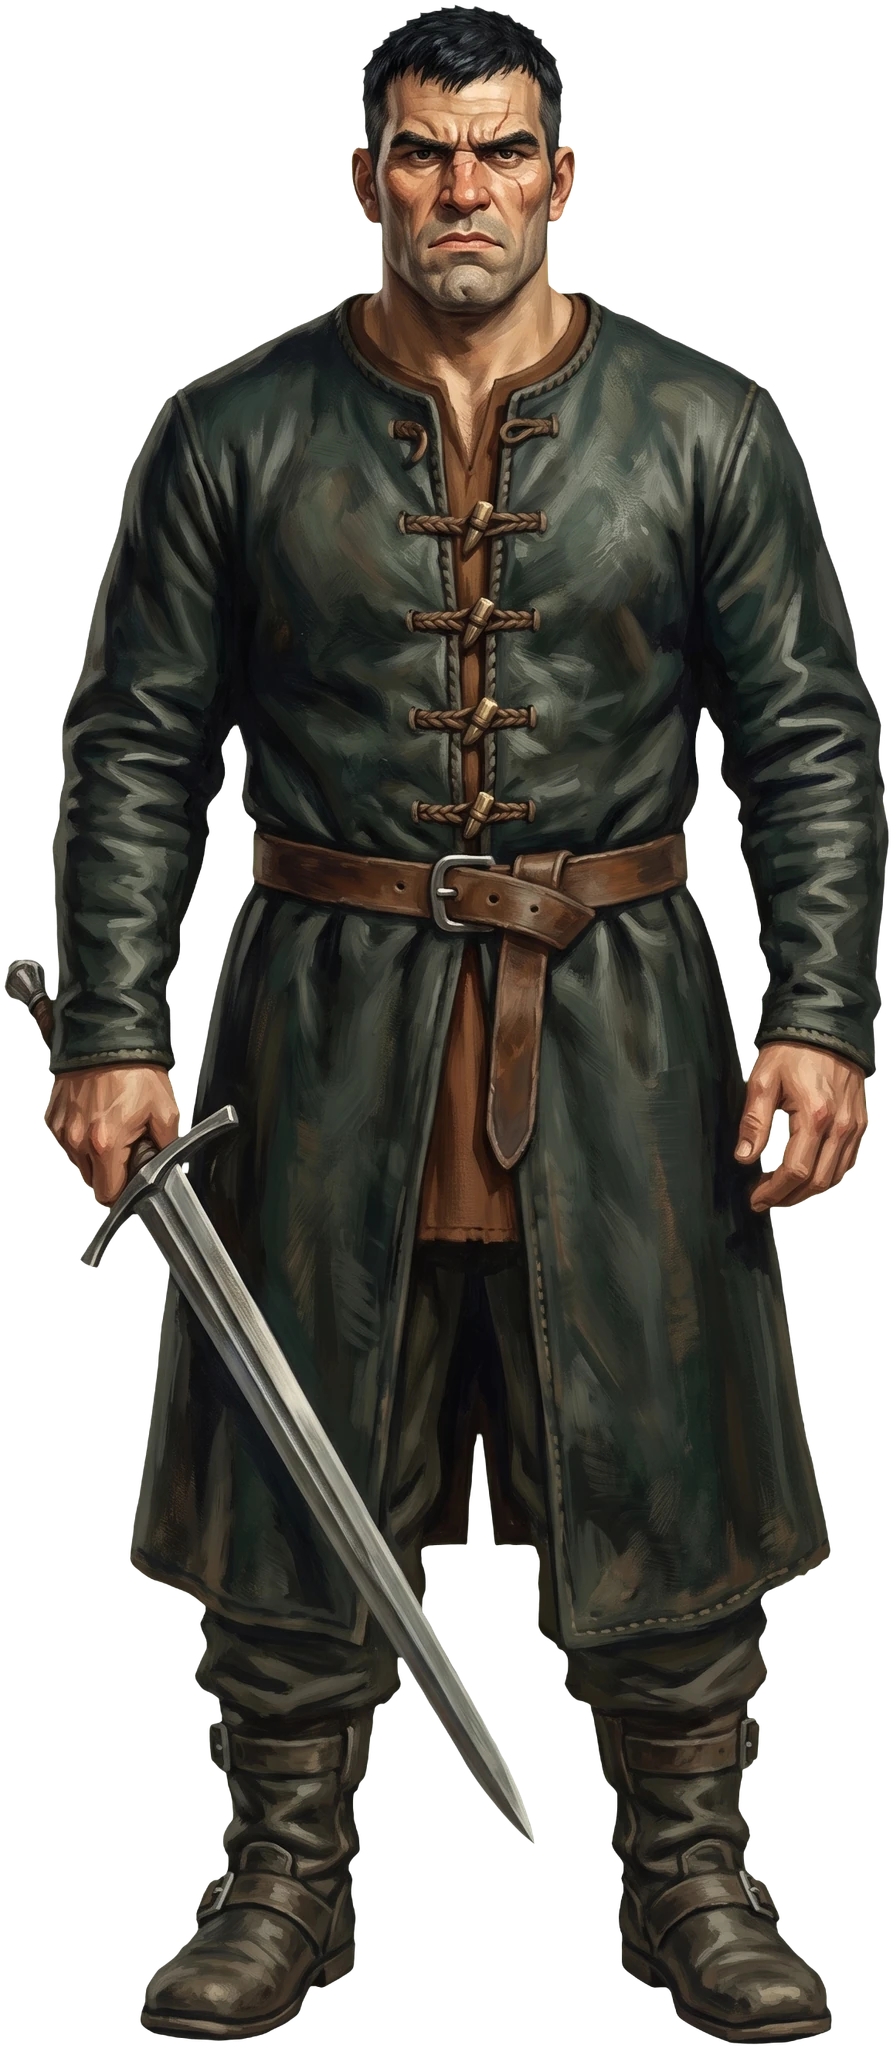
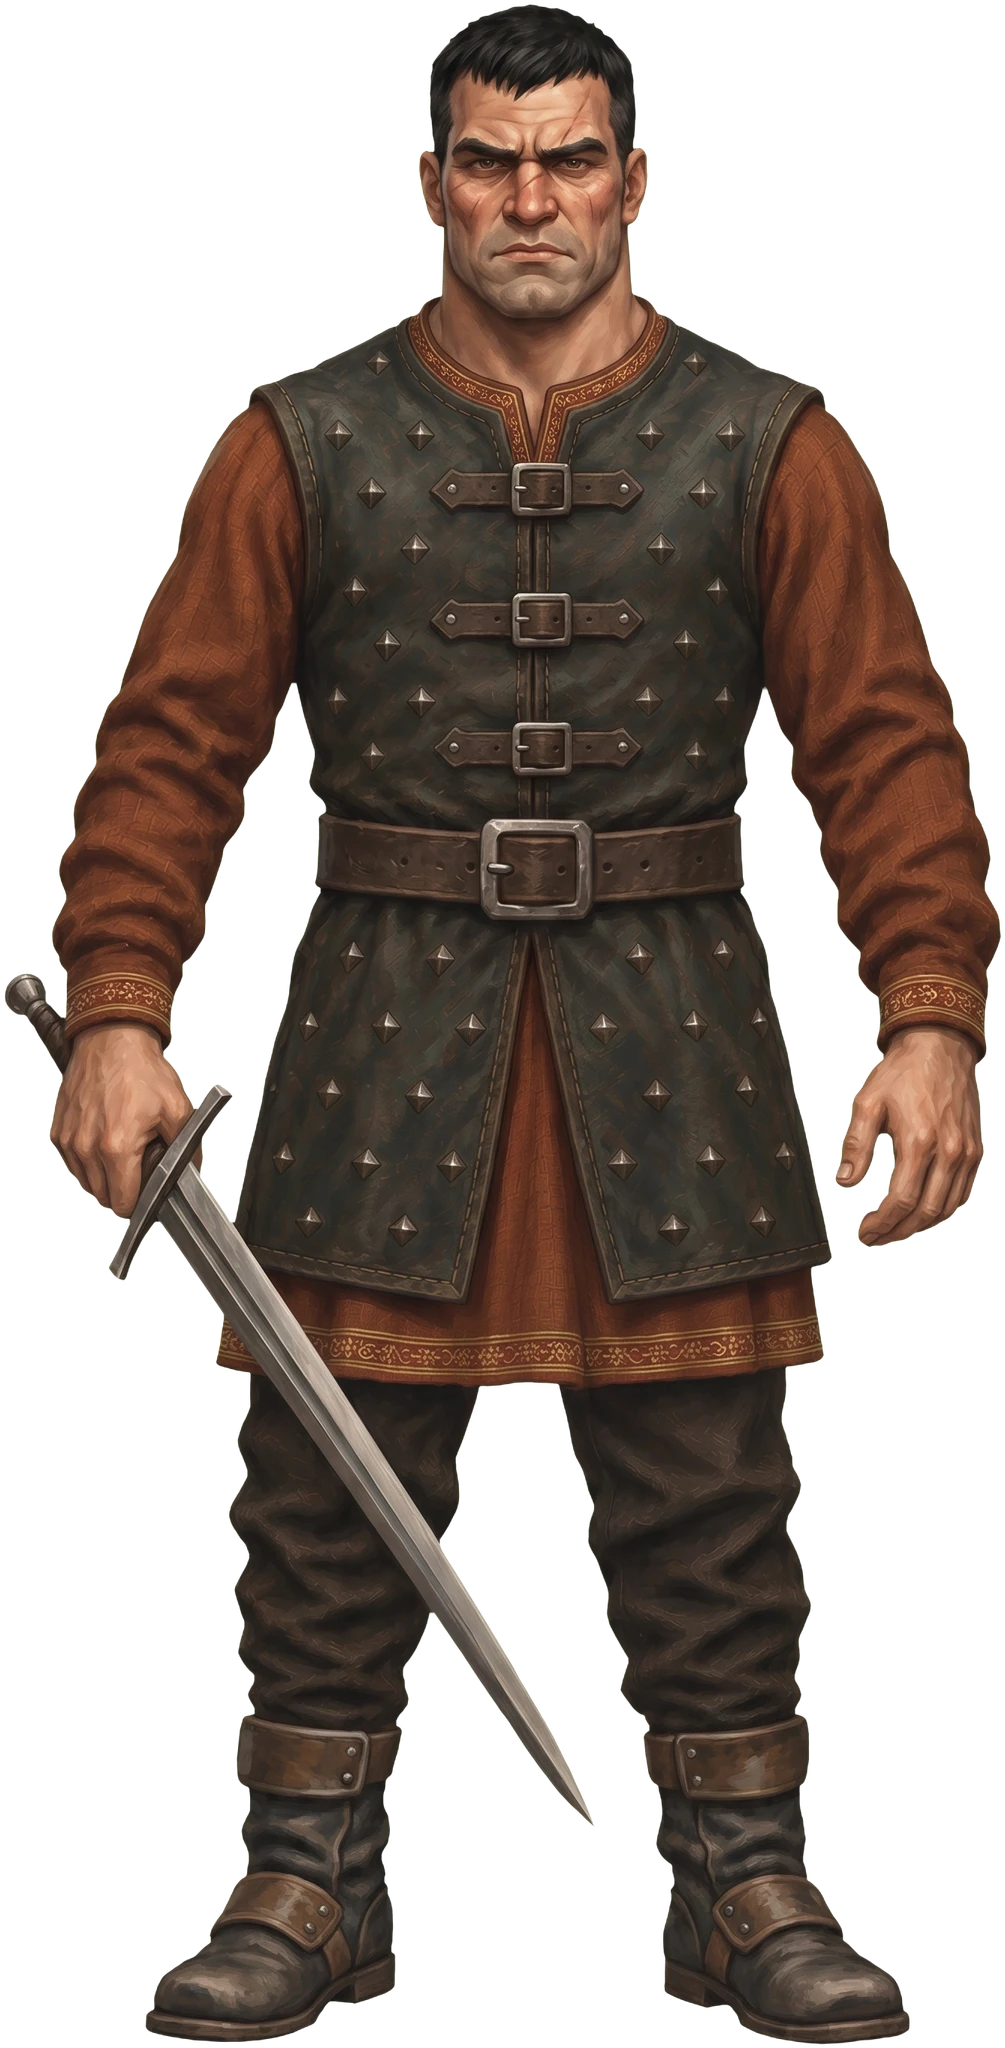
Reinhard wears a studded green-black jerkin over an embroidered rust tunic: card front, back and portrait repainted from the outfit picked for Karameikos, which is now his standee reference. The kaftan leaves his brief and the cover scene

diff --git a/scripts/stage-standees.ts b/scripts/stage-standees.ts
@@ -125,13 +125,15 @@ const FIGURES: Record<string, Figure> = {
     ref: "https://d20-public.s3.us-east-1.amazonaws.com/images/settings/realm-of-myr/covert-cargo/pcs/b44179ad-0e8e-4d1e-8b17-8c436dbeb15a.png",
     head: 0.19,
   },
-  // Covert Cargo's cast, painted from their web portraits.
+  // Covert Cargo's cast, painted from their web portraits. Reinhard's is the outfit chosen for Karameikos, not the web one.
   reinhard: {
     out: "fixtures/covert-cargo/reinhard",
     who: "Reinhard, Human male enforcer",
-    look: "A burly, broad-shouldered man with a square, scarred, scowling face, a heavy brow, close-cropped black hair and a strong jaw. A long late-medieval kaftan of dark green-black leather that falls to mid-calf: collarless, with a plain round neck edged in stitched leather, close sleeves to the wrist, fastened from the neck to the waist by a row of horn toggles on braided leather loops, girt with a wide brown leather belt and an iron buckle, its skirts parting below the belt. A rust-brown tunic shows at the neck, dark trousers and heavy buckled boots. A longsword in his right hand, point down. The coat of image 1 is replaced by this kaftan: nothing modern, no lapels, no turned-down collar, no shoulder flap, no pockets, no buttonholes.",
-    ref: "https://d20-public.s3.us-east-1.amazonaws.com/images/settings/realm-of-myr/covert-cargo/npcs/236683b0-4745-4a8c-ad9d-48ed3bbaf908.png",
+    look: "A burly, broad-shouldered man with a square, scarred, scowling face, a heavy brow, close-cropped black hair and a strong jaw. A sleeveless jerkin of dark green-black leather set with small iron studs, its split skirts reaching mid-thigh, closed down the chest by three leather straps with iron buckles and girt with a wide brown leather belt and an iron buckle. Under it a rust-brown long-sleeved tunic to the thigh, with a narrow band of dull gold and red embroidery at the round neck, the cuffs and the hem. Dark trousers and heavy buckled boots. A longsword in his right hand, point down. No coat, cloak or hood.",
+    ref: "design/stage/refs/reinhard.jpg",
     head: 0.13,
+    backNote:
+      "The jerkin closes at the FRONT only. Its back is plain studded leather with one stitched centre seam: NO straps and NO buckles anywhere on the back. The belt shows as a plain strap, its buckle hidden in front. The trousers are the same very dark brown as in image 1.",
   },
   silas: {
     out: "fixtures/covert-cargo/silas",

diff --git a/scripts/adventure-covers.ts b/scripts/adventure-covers.ts
@@ -39,7 +39,7 @@ const COVERS: Record<string, Cover> = {
   },
   "covert-cargo": {
     scene:
-      "Before dawn on a misty river, on the lantern-lit deck of an old riverboat tied to a rickety pier: Lyra (a young WOMAN scholar with round glasses, brown hair and a green coat, as in her reference) and Poppen (a small curly-haired halfling in a patchwork coat, as in his reference) face Silas, a hooded smuggler, and Reinhard, a scarred swordsman in a long dark leather kaftan (as in their references), across a heavy iron-banded, chained crate. Blades half drawn, warm lamplight from the cabin windows against blue mist, moss-hung trees along the bank.",
+      "Before dawn on a misty river, on the lantern-lit deck of an old riverboat tied to a rickety pier: Lyra (a young WOMAN scholar with round glasses, brown hair and a green coat, as in her reference) and Poppen (a small curly-haired halfling in a patchwork coat, as in his reference) face Silas, a hooded smuggler, and Reinhard, a scarred swordsman in a studded dark leather jerkin over a rust tunic (as in their references), across a heavy iron-banded, chained crate. Blades half drawn, warm lamplight from the cabin windows against blue mist, moss-hung trees along the bank.",
     refs: [
       `${CF}/covert-cargo/encounters/the-shipment/dccea2c5-b22d-41e0-9467-95d8ea2301d5.png`,
       `${CF}/covert-cargo/encounters/the-crate/a3a863a9-dca9-48da-b3fe-e8c4ad90af3a.png`,
